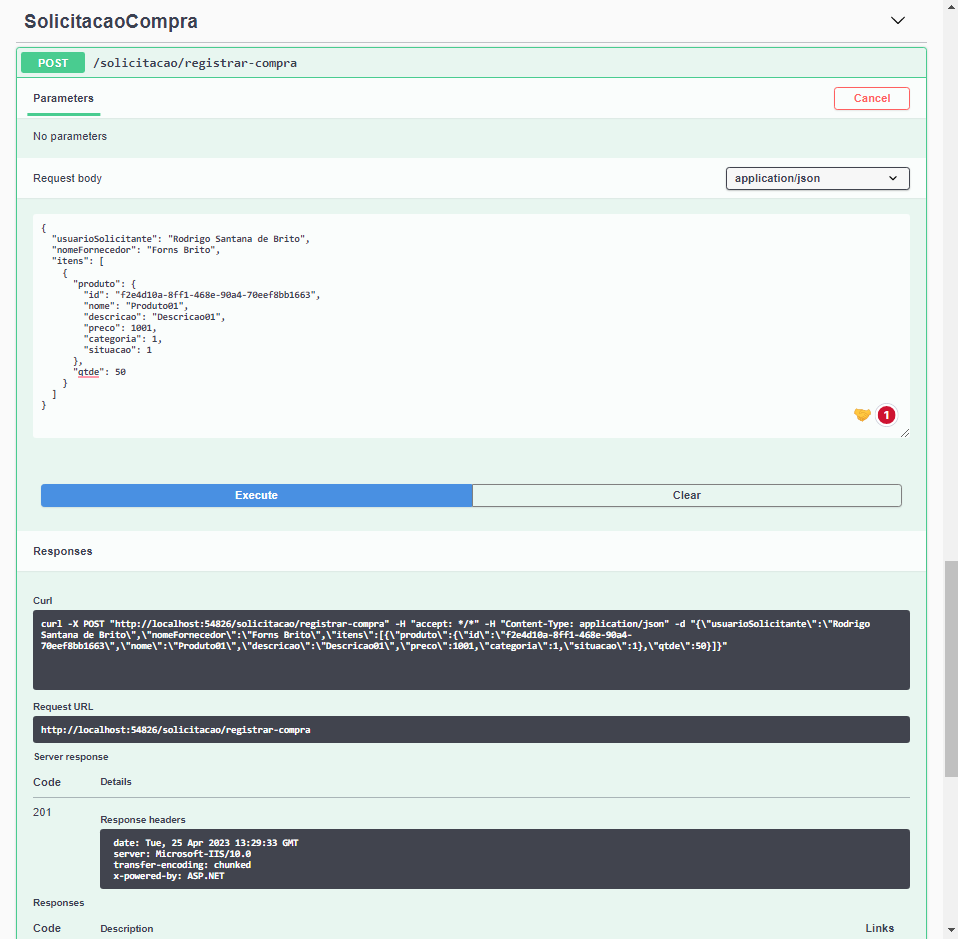
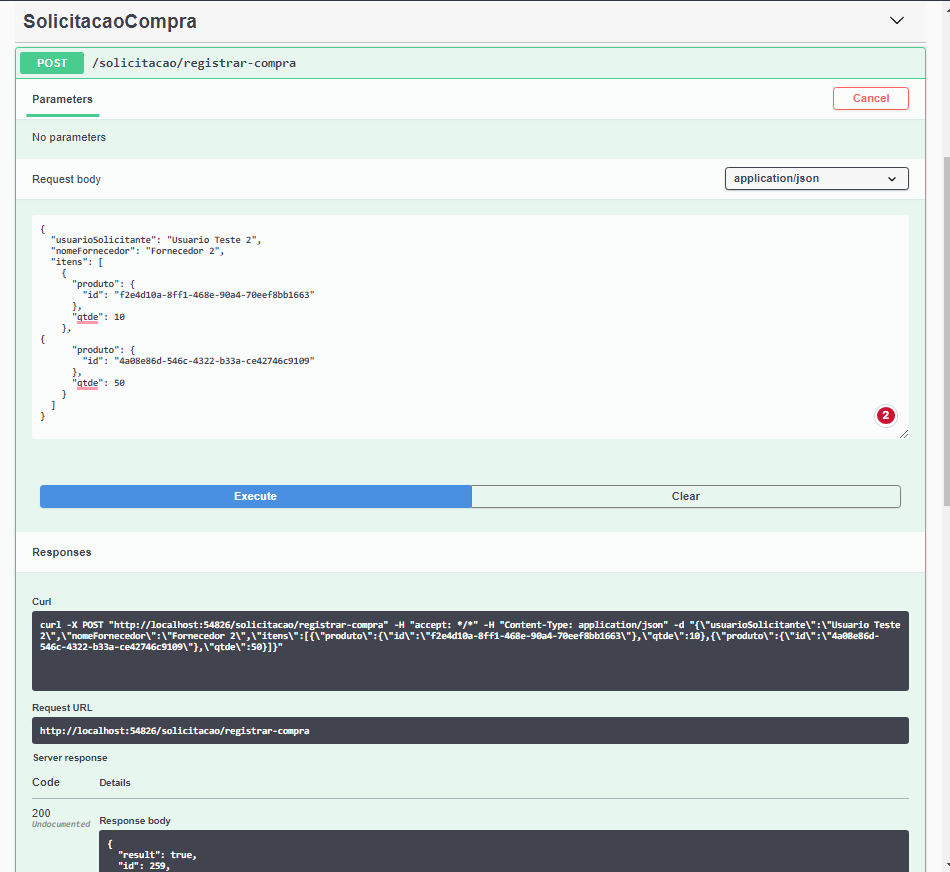
RB: Refatorado a forma de obter os produtos quando solicitar a compra

diff --git a/src/SistemaCompra.Application/SolicitacaoCompra/Command/RegistrarCompra/RegistrarCompraCommandHandler.cs b/src/SistemaCompra.Application/SolicitacaoCompra/Command/RegistrarCompra/RegistrarCompraCommandHandler.cs
@@ -5,6 +5,7 @@ using SistemaCompra.Infra.Data.UoW;
 using System.Collections.Generic;
 using System.Threading;
 using System.Threading.Tasks;
+using ProdutoAgg = SistemaCompra.Domain.ProdutoAggregate;
 using SolicitacaoCompraAgg = SistemaCompra.Domain.SolicitacaoCompraAggregate;
 
 namespace SistemaCompra.Application.SolicitacaoCompra.Command.RegistrarCompra
@@ -12,19 +13,21 @@ namespace SistemaCompra.Application.SolicitacaoCompra.Command.RegistrarCompra
     public class RegistrarCompraCommandHandler : CommandHandler, IRequestHandler<RegistrarCompraCommand, bool>
     {
         private readonly SolicitacaoCompraAgg.ISolicitacaoCompraRepository _solicitacaoCompraRepository;
-        private readonly IMapper _mapper;
+        private readonly ProdutoAgg.IProdutoRepository _produtoRepository;
 
-        public RegistrarCompraCommandHandler(ISolicitacaoCompraRepository solicitacaoCompraRepository, IUnitOfWork uow, IMediator mediator, IMapper mapper) : base(uow, mediator)
+        public RegistrarCompraCommandHandler(ISolicitacaoCompraRepository solicitacaoCompraRepository, IUnitOfWork uow, IMediator mediator, ProdutoAgg.IProdutoRepository produtoRepository) : base(uow, mediator)
         {
             _solicitacaoCompraRepository = solicitacaoCompraRepository;
-            _mapper = mapper;
+            _produtoRepository = produtoRepository;
         }
 
         public Task<bool> Handle(RegistrarCompraCommand request, CancellationToken cancellationToken)
         {
             var solicitacao = new SolicitacaoCompraAgg.SolicitacaoCompra(request.UsuarioSolicitante, request.NomeFornecedor);
 
-            var itens = _mapper.Map<IEnumerable<Item>>(request.Itens);
+            var itens = new List<Item>();
+            foreach (var item in request.Itens)
+                itens.Add(new Item(_produtoRepository.Obter(item.Produto.Id), item.Qtde));
 
             solicitacao.RegistrarCompra(itens);
             _solicitacaoCompraRepository.RegistrarCompra(solicitacao);

diff --git a/src/SistemaCompra.API/SolicitacaoCompra/SolicitacaoCompraController.cs b/src/SistemaCompra.API/SolicitacaoCompra/SolicitacaoCompraController.cs
@@ -20,8 +20,8 @@ namespace SistemaCompra.API.SolicitacaoCompra
         [ProducesResponseType(500)]
         public IActionResult RegistrarCompra([FromBody] RegistrarCompraCommand registrarCompraCommand)
         {
-            _mediator.Send(registrarCompraCommand);
-            return StatusCode(201);
+            var result = _mediator.Send(registrarCompraCommand);
+            return Ok(result);
         }
     }
 }

diff --git a/src/SistemaCompra.Application/SolicitacaoCompra/Command/RegistrarCompra/ItemViewModel.cs b/src/SistemaCompra.Application/SolicitacaoCompra/Command/RegistrarCompra/ItemViewModel.cs
@@ -15,11 +15,5 @@ namespace SistemaCompra.Application.SolicitacaoCompra.Command.RegistrarCompra
     public class ProdutoViewModel
     {
         public Guid Id { get; set; }
-        public string Nome { get; set; }
-        public string Descricao { get; set; }
-        public decimal Preco { get; set; }
-        public int Categoria { get; set; }
-        public int Situacao { get; set; }
-
     }
 }
